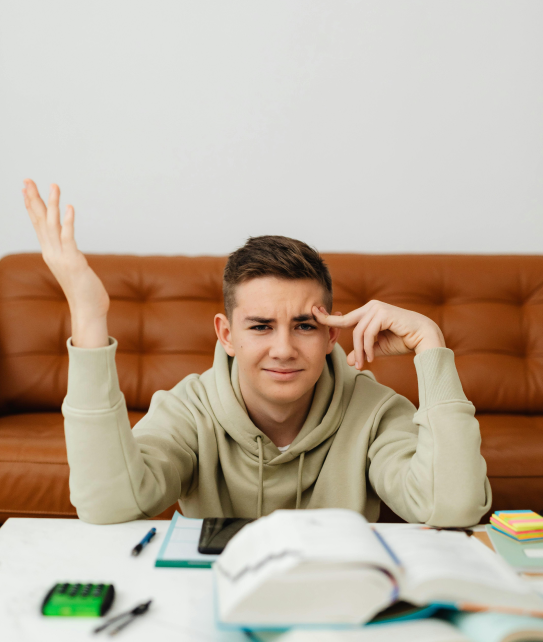
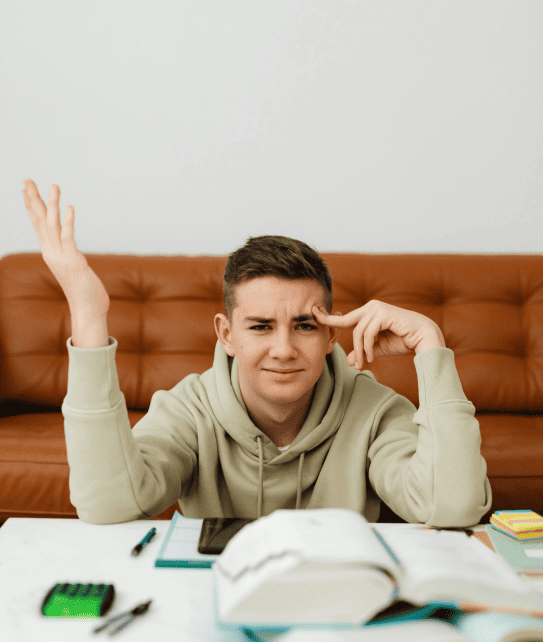
compress all assets

diff --git a/resources/views/layoutsindo/app.blade.php b/resources/views/layoutsindo/app.blade.php
@@ -19,7 +19,7 @@
     <script src="https://www.google.com/recaptcha/api.js?render={{ config('services.recaptcha.key') }}"></script>
     {{-- Google ReCaptcha V3 Stop --}}
 
-    <title>- IT & Finance Consultant - ITFIN Expert</title>
+    <title> Konsultan IT & Finansial - ITFIN Expert</title>
     <!-- Favicon -->
     <link rel="shortcut icon" type="image/x-icon" href="{{ asset('assets/images/favicon.png') }}">
     <!-- CSS ============================================ -->
